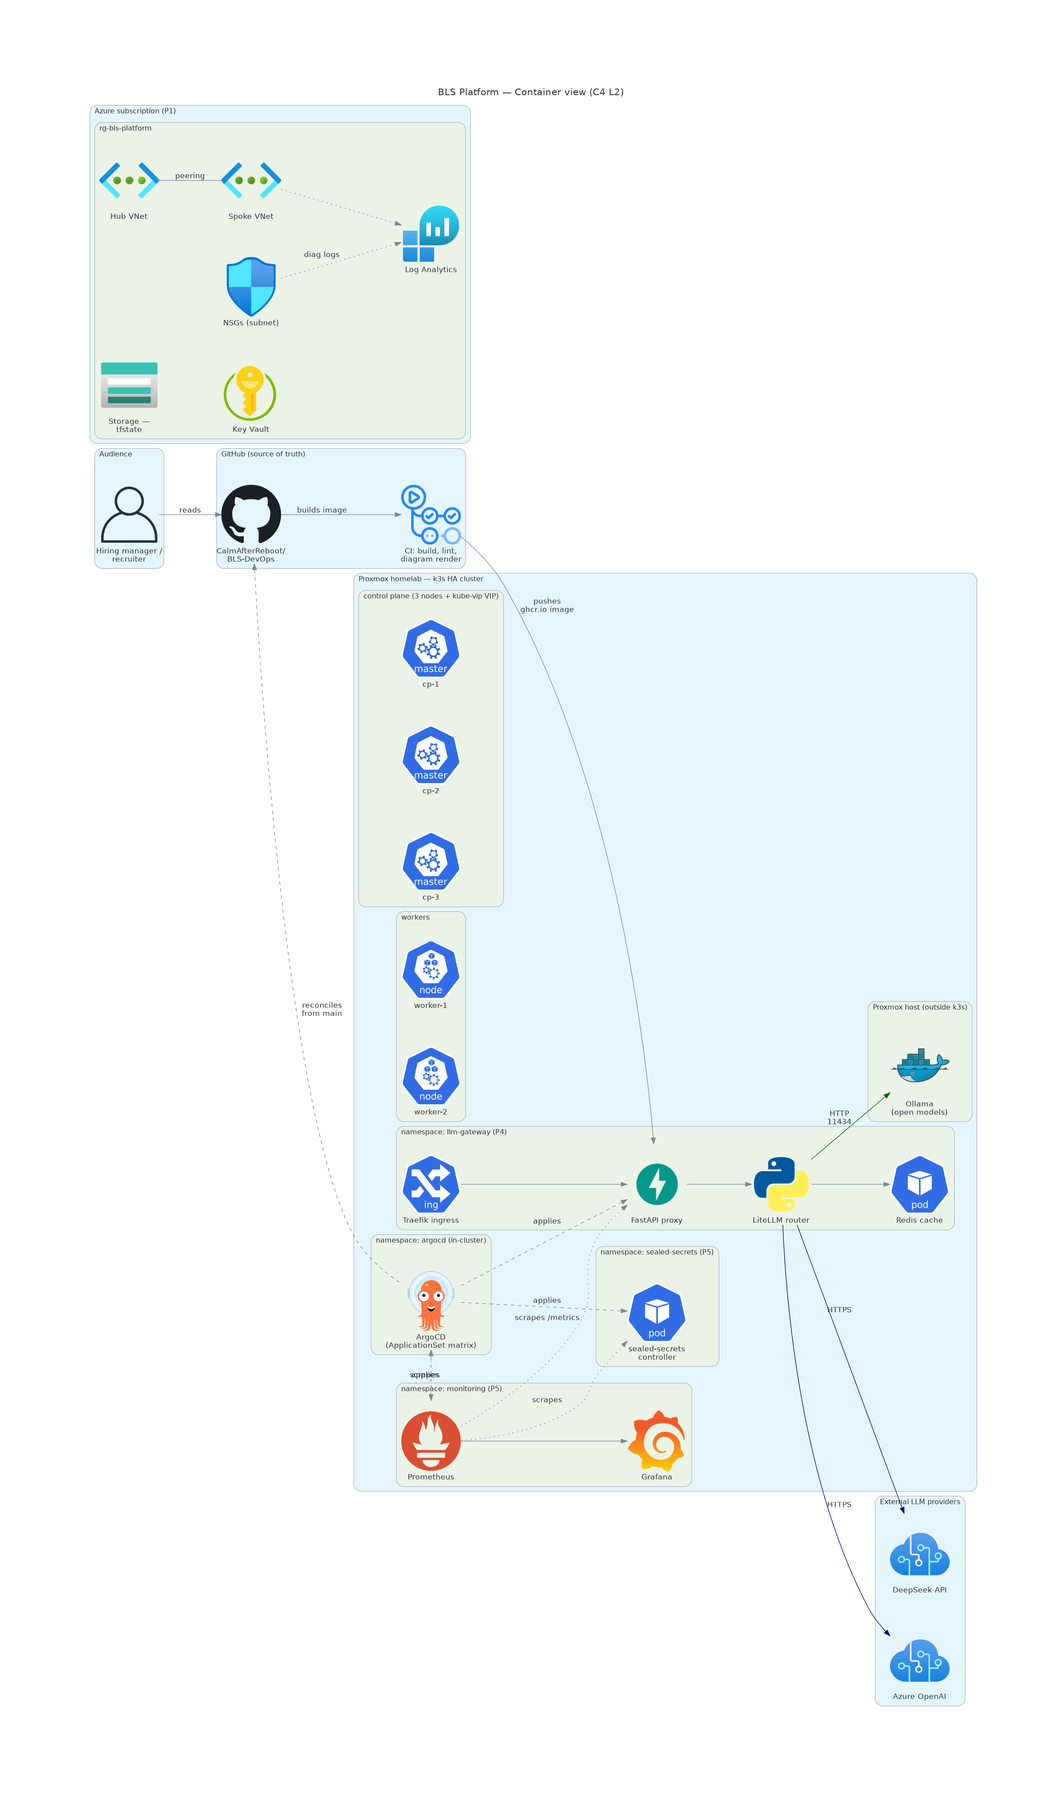
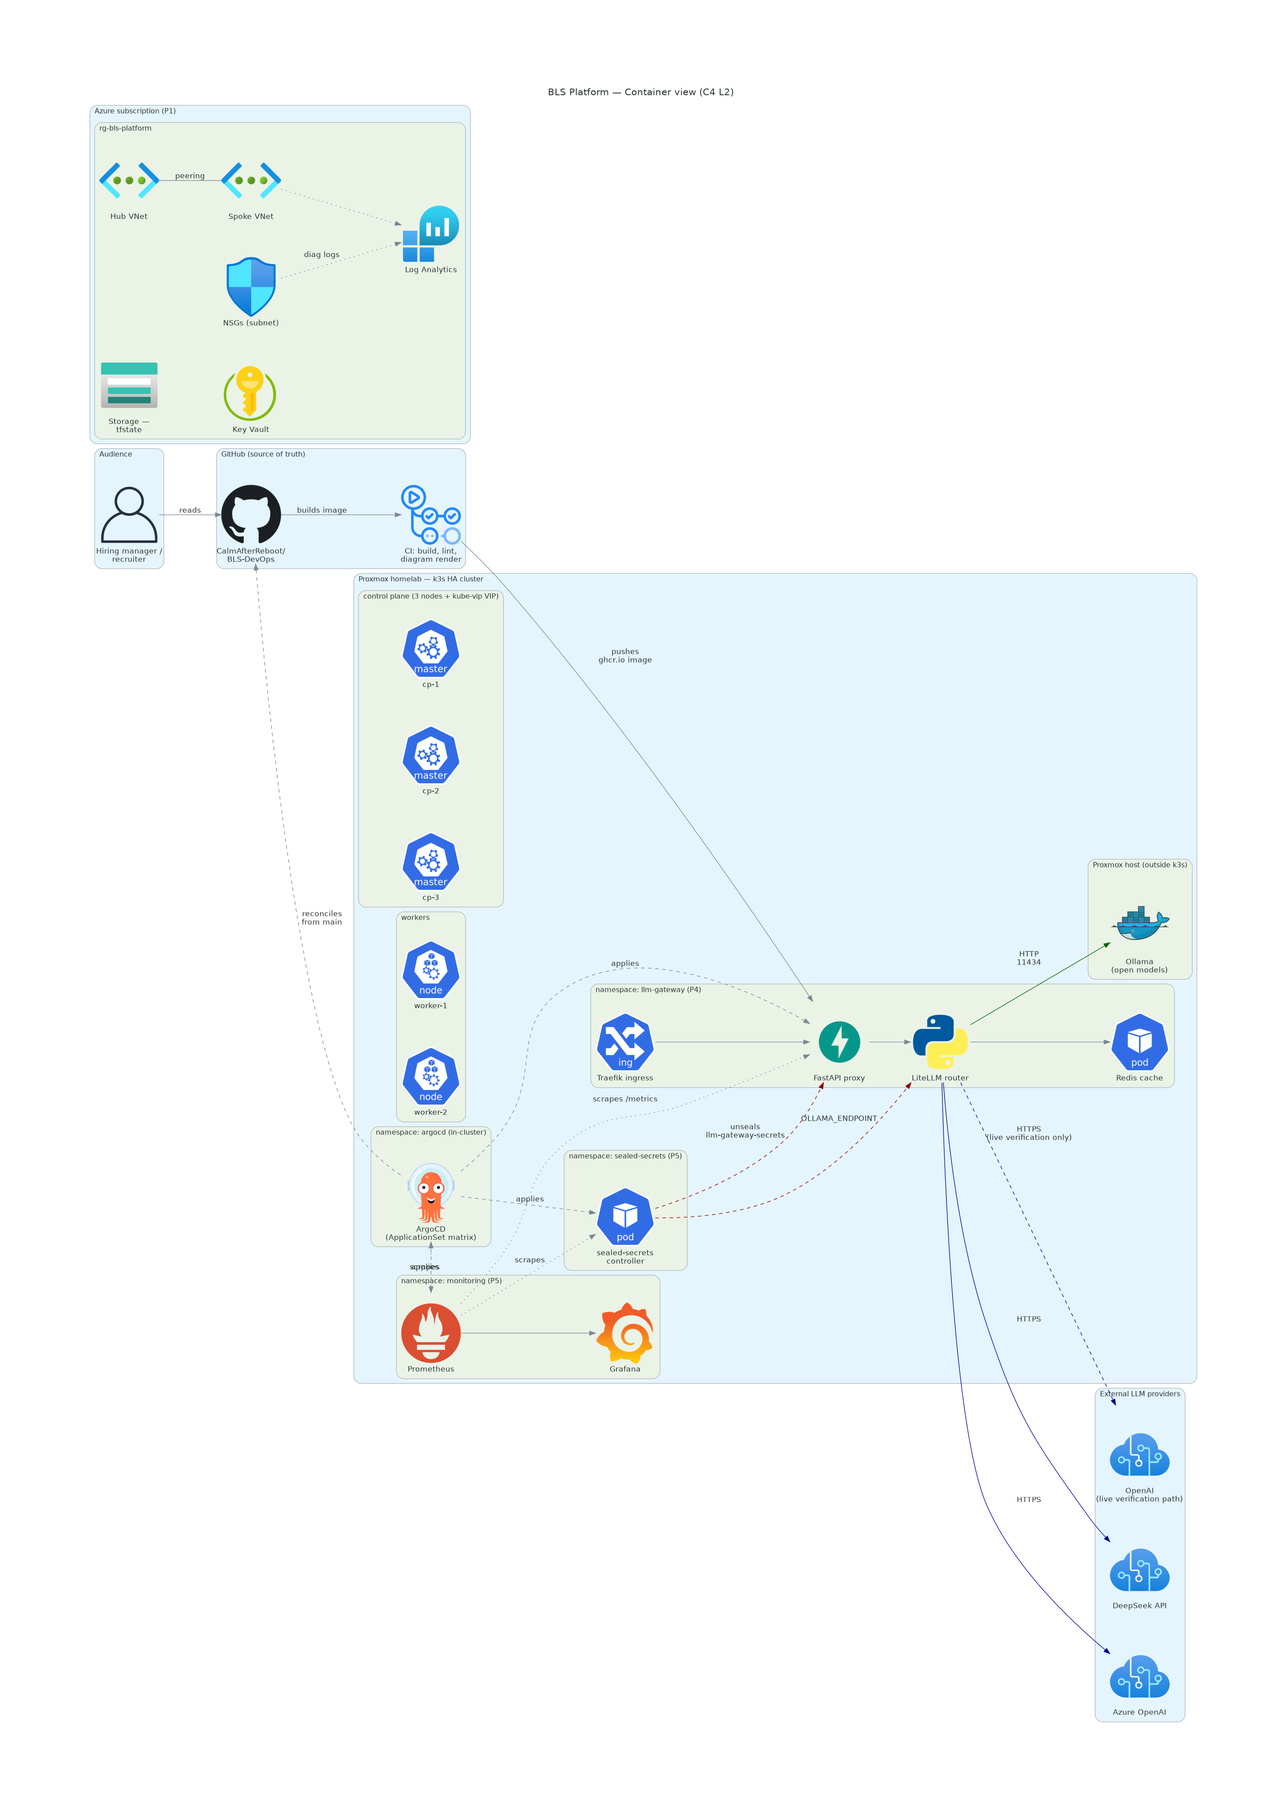
docs: refresh P1–P4 diagrams + add docs/tools-and-urls.md (#12)
* docs: refresh diagrams P1-P4 and add docs/tools-and-urls.md

Diagrams refreshed to reflect the state after today's six PRs
(#6 through #11) on P4 — chiefly WU-4 closure, the live OpenAI
verification suite, the auth-middleware contract change, and the
move of the Ollama endpoint into the SealedSecret.

## Diagram updates

- 00-system-context.mmd — `LLM providers` callout now names the
  three actual providers (OpenAI, Azure OpenAI, Ollama) instead
  of a generic label.
- 01-container-view.py — adds OpenAI to external providers
  (dashed edge marks the opt-in live-verification path) and adds
  a provisioning-time dashed edge from sealed-secrets controller
  to the gateway + LiteLLM showing env-var injection.
- 04-multi-cluster-gitops.mmd — `bls-aks-demo` arm annotated with
  current `Unknown` sync state (AKS torn down for cost discipline,
  rebuild = WU-5). Closing note clarifies selfHeal applies to the
  reachable arm.
- 05-llm-gateway-request-path.mmd — major refresh. Adds a banner
  note for the three SealedSecret-sourced env vars (BLS_API_KEYS,
  LITELLM_MASTER_KEY, OLLAMA_ENDPOINT). The 401/403 branches now
  show the JSON envelope shape clients see after the auth fix in
  PR #11. OLLAMA_ENDPOINT path made explicit on the Ollama call.
- 07-scope-boundary.mmd — IN-scope: LLM gateway entry now says
  `SealedSecret-backed`; adds `Live OpenAI verification + committed
  evidence`. OUT-scope open-WU list updated to remove the now-closed
  WU-3 and WU-4.
[…]

Changed region(s): [[0.0618, 0.0311, 0.9586, 0.9649], [0.7112, 0.5603, 0.804, 0.6848], [0.5875, 0.5603, 0.6803, 0.6848]]

diff --git a/docs/diagrams/01-container-view.py b/docs/diagrams/01-container-view.py
@@ -61,6 +61,7 @@ with Diagram(
     with Cluster("External LLM providers"):
         deepseek = CognitiveServices("DeepSeek API")
         aoai = CognitiveServices("Azure OpenAI")
+        openai = CognitiveServices("OpenAI\n(live verification path)")
 
     # Azure landing zone (P1)
     with Cluster("Azure subscription (P1)"):
@@ -114,6 +115,15 @@ with Diagram(
     litellm >> Edge(label="HTTP\n11434", color="darkgreen") >> ollama
     litellm >> Edge(label="HTTPS", color="darkblue") >> deepseek
     litellm >> Edge(label="HTTPS", color="darkblue") >> aoai
+    litellm >> Edge(label="HTTPS\n(live verification only)", color="darkblue", style="dashed") >> openai
+
+    # Sealed-secrets controller unseals committed SealedSecrets into
+    # in-namespace Secrets that the gateway and LiteLLM mount as env vars
+    # (BLS_API_KEYS, LITELLM_MASTER_KEY, OLLAMA_ENDPOINT). Edge is
+    # rendered dashed because the relationship is provisioning-time,
+    # not request-time.
+    sealed >> Edge(label="unseals\nllm-gateway-secrets", style="dashed", color="darkred") >> fastapi
+    sealed >> Edge(label="OLLAMA_ENDPOINT", style="dashed", color="darkred") >> litellm
 
     prom >> Edge(label="scrapes /metrics", style="dotted") >> fastapi
     prom >> Edge(label="scrapes", style="dotted") >> argocd

diff --git a/docs/diagrams/README.md b/docs/diagrams/README.md
@@ -70,13 +70,13 @@ The catalogue is the index. Every diagram below has a row; every row links to so
 
 | # | Source | Type | Caption | Supports |
 |---|---|---|---|---|
-| 00 | [`00-system-context.mmd`](./00-system-context.mmd) | Mermaid (C4 L1) | System context: the BLS Platform at the centre and the systems it genuinely interacts with at runtime — GitHub (source of truth + CI), Microsoft Azure (P1 landing zone + Terraform remote state), the Proxmox homelab (k3s cluster, ArgoCD, workloads P4 and P5), and the upstream LLM providers consumed via the FastAPI/LiteLLM gateway. The single human actor is an API client (developer or service) hitting the LLM gateway — a real runtime user. The dotted edge from GitHub to Proxmox names the GitOps reconciliation path (Git is the source, ArgoCD pulls). Audience actors — recruiter, hiring manager, the architect-as-author — are deliberately not in this diagram; a system context diagram records technical interactions, not the portfolio's reading audience. | Bridge document §1 (the signal); [`BLS-PLATFORM-ENGINEERING-GUIDE.md`](../../BLS-PLATFORM-ENGINEERING-GUIDE.md) |
-| 01 | [`01-container-view.py`](./01-container-view.py) | Python topology (C4 L2) | Container-level view of the entire BLS platform. GitHub + Actions on the left; Azure landing zone (P1) and Proxmox homelab k3s cluster (P2 + P4 + P5) in the centre; external LLM providers on the right. Shows GitOps reconciliation, the CI image-push edge, Prometheus scrape edges, and the cross-cluster request path from FastAPI gateway through LiteLLM to Ollama / Azure OpenAI / DeepSeek. | Bridge document §4 (project-by-project landing page) |
+| 00 | [`00-system-context.mmd`](./00-system-context.mmd) | Mermaid (C4 L1) | System context: the BLS Platform at the centre and the systems it genuinely interacts with at runtime — GitHub (source of truth + CI), Microsoft Azure (P1 landing zone + Terraform remote state), the Proxmox homelab (k3s cluster, ArgoCD, workloads P4 and P5), and the upstream LLM providers (OpenAI, Azure OpenAI, Ollama) consumed via the FastAPI/LiteLLM gateway. The single human actor is an API client (developer or service) hitting the LLM gateway — a real runtime user. The dotted edge from GitHub to Proxmox names the GitOps reconciliation path (Git is the source, ArgoCD pulls). Audience actors — recruiter, hiring manager, the architect-as-author — are deliberately not in this diagram; a system context diagram records technical interactions, not the portfolio's reading audience. | Bridge document §1 (the signal); [`BLS-PLATFORM-ENGINEERING-GUIDE.md`](../../BLS-PLATFORM-ENGINEERING-GUIDE.md) |
+| 01 | [`01-container-view.py`](./01-container-view.py) | Python topology (C4 L2) | Container-level view of the entire BLS platform. GitHub + Actions on the left; Azure landing zone (P1) and Proxmox homelab k3s cluster (P2 + P4 + P5) in the centre; external LLM providers on the right (Ollama on the Proxmox host, plus DeepSeek / Azure OpenAI / OpenAI as cloud providers — the last reached only via the opt-in live verification suite). Shows GitOps reconciliation, the CI image-push edge, Prometheus scrape edges, the LiteLLM-to-backend request paths, and a dashed provisioning-time edge from the sealed-secrets controller to the gateway and LiteLLM showing how `llm-gateway-secrets` (BLS_API_KEYS, LITELLM_MASTER_KEY, OLLAMA_ENDPOINT) is injected as env vars at pod start. | Bridge document §4 (project-by-project landing page) |
 | 02 | [`02-landing-zone-topology.py`](./02-landing-zone-topology.py) | Python topology | P1 — Azure Landing Zone. Hub VNet `10.0.0.0/16` and Spoke VNet `10.1.0.0/16` peered bidirectionally; subnet-scoped NSGs; Log Analytics workspace receiving diagnostic logs from VNets and NSGs; Storage Account for remote Terraform state; Key Vault. | Bridge document §4 (P1) |
 | 03 | [`03-k3s-ha-cluster.py`](./03-k3s-ha-cluster.py) | Python topology | P2 — k3s HA cluster on Proxmox. Three control-plane nodes behind a kube-vip-managed VIP (placeholder `<vip-ip>`), embedded etcd quorum, two workers, ArgoCD running in-cluster, the Ansible `node-hardening` role rendered as a banner. VLAN identifiers placeheld per the private-network sanitisation rule. | Bridge document §4 (P2); ADR-002, ADR-003 |
-| 04 | [`04-multi-cluster-gitops.mmd`](./04-multi-cluster-gitops.mmd) | Mermaid sequence | P3 — multi-cluster GitOps reconciliation. Git push → ApplicationSet matrix generator expands `[clusters] × [workloads]` → ArgoCD reconciles each child Application to its target cluster (k3s in-cluster and `bls-aks-demo`) in parallel → health rolls back up to the UI. The closing note captures why `selfHeal=true` is load-bearing. | Bridge document §4 (P3); ADR-005 |
-| 05 | [`05-llm-gateway-request-path.mmd`](./05-llm-gateway-request-path.mmd) | Mermaid sequence | P4 — LLM gateway request path. Bearer auth at the FastAPI edge, LiteLLM router with cache-hit/cache-miss branch, backend selection (Ollama on the Proxmox host vs Azure OpenAI), response. The Prometheus `/metrics` scrape is rendered as a separate async edge — deliberately not part of the request path. | Bridge document §4 (P4); ADR-008 |
-| 07 | [`07-scope-boundary.mmd`](./07-scope-boundary.mmd) | Mermaid flowchart | Scope discipline: two columns — what the portfolio claims (left) versus what it deliberately does not claim (right). Box labels are kept short for legibility; the depth lives here. Left: Terraform-built hub-spoke landing zone (with remote state + locking); HA k3s on Proxmox (with the Ansible node-hardening role); matrix-ApplicationSet GitOps (N×M reconciliation); the FastAPI/LiteLLM LLM gateway running with `/metrics` exposed; kube-prometheus-stack + Sealed Secrets (runbook, restart test, key backup); six ADRs, two runbooks, five release tags, incident response documented. Right: no multi-tenant production workload; no AWS/GCP production depth inside this repo (GCP is on the P6 roadmap, not built); no platform-team-of-N coordination (one-architect portfolio); AKS is torn down for cost discipline (rebuild tracked as WU-5); open WUs remain (WU-3, 4, 5, 6, 8, 9 — tracked and honest); no formal 24/7 SRE on-call (that's MSP context, not this repo). | Bridge document §6 (what this portfolio deliberately doesn't claim); Plan-v4 operating doc §5 |
+| 04 | [`04-multi-cluster-gitops.mmd`](./04-multi-cluster-gitops.mmd) | Mermaid sequence | P3 — multi-cluster GitOps reconciliation. Git push → ApplicationSet matrix generator expands `[clusters] × [workloads]` → ArgoCD reconciles each child Application to its target cluster (k3s in-cluster and `bls-aks-demo`) in parallel → health rolls back up to the UI. The `bls-aks-demo` arm is annotated with its current `Unknown` sync state — AKS is torn down for cost discipline (rebuild tracked as WU-5), so the reconcile leg is intentionally unreachable rather than broken. The closing note captures why `selfHeal=true` is load-bearing for the reachable arm. | Bridge document §4 (P3); ADR-005 |
+| 05 | [`05-llm-gateway-request-path.mmd`](./05-llm-gateway-request-path.mmd) | Mermaid sequence | P4 — LLM gateway request path. Three runtime credentials are sourced from the SealedSecret `llm-gateway-secrets` at pod start (rendered as a banner note, not a request-time edge): `BLS_API_KEYS` gates Bearer auth at the FastAPI edge, `LITELLM_MASTER_KEY` authorises gateway→LiteLLM, and `OLLAMA_ENDPOINT` is substituted into LiteLLM's `api_base` via its `os.environ/VAR` syntax — so no homelab-internal address is committed in plaintext. Auth failures return a typed JSON envelope (401 missing-token / 403 invalid-key). LiteLLM router carries the cache-hit/cache-miss branch and backend selection (Ollama on the Proxmox host vs Azure OpenAI). The Prometheus `/metrics` scrape is rendered as a separate async edge — deliberately not part of the request path. | Bridge document §4 (P4); ADR-008; [`k8s/workloads/llm-gateway/SECURITY.md`](../../k8s/workloads/llm-gateway/SECURITY.md) |
+| 07 | [`07-scope-boundary.mmd`](./07-scope-boundary.mmd) | Mermaid flowchart | Scope discipline: two columns — what the portfolio claims (left) versus what it deliberately does not claim (right). Box labels are kept short for legibility; the depth lives here. Left: Terraform-built hub-spoke landing zone (with remote state + locking); HA k3s on Proxmox (with the Ansible node-hardening role); matrix-ApplicationSet GitOps (N×M reconciliation); the FastAPI/LiteLLM LLM gateway running with `/metrics` exposed and runtime credentials sourced from a `SealedSecret` (WU-4 closed); kube-prometheus-stack + Sealed Secrets (runbook, restart test, key backup); live OpenAI verification suite with two committed JSON evidence artefacts under [`k8s/workloads/llm-gateway/docs/verification/`](../../k8s/workloads/llm-gateway/docs/verification/); six ADRs, two runbooks, five release tags, incident response documented. Right: no multi-tenant production workload; no AWS/GCP production depth inside this repo (GCP is on the P6 roadmap, not built); no platform-team-of-N coordination (one-architect portfolio); AKS is torn down for cost discipline (rebuild tracked as WU-5); open WUs remain (5, 6, 8, 9 — tracked and honest); no formal 24/7 SRE on-call (that's MSP context, not this repo). | Bridge document §6 (what this portfolio deliberately doesn't claim); Plan-v4 operating doc §5 |
 
 Future diagrams (planned, Plan-v4 Week 3):
 

diff --git a/docs/tools-and-urls.md b/docs/tools-and-urls.md
@@ -1,0 +1,120 @@
+# Tools and URLs
+
+> Public reference for every tool the BLS Platform uses, with links to its
+> documentation and the version pinned (where one is committed). This is
+> the index — depth lives in the linked ADR, runbook, or project README.
+> For the conceptual mapping of *why* each tool was chosen, see
+> [`docs/plan-v4/concept-tool-mapping.md`](plan-v4/concept-tool-mapping.md).
+
+Internal homelab URLs (ArgoCD UI, Grafana UI, kube-vip VIP, Proxmox host)
+are deliberately omitted — per the sanitisation rule, no
+private-network address is committed to a public artefact.
+
+## This repository
+
+| Resource | URL |
+|---|---|
+| Source of truth (GitHub) | <https://github.com/CalmAfterReboot/BLS-platform> |
+| Gateway container image (GHCR) | `ghcr.io/calmafterreboot/bls-llm-gateway` (`:latest` + `:<sha>`) |
+| CI build workflow | [`.github/workflows/build-gateway.yaml`](../.github/workflows/build-gateway.yaml) |
+| Diagram render workflow | [`.github/workflows/render-diagrams.yml`](../.github/workflows/render-diagrams.yml) |
+| Terraform CI / plan / apply | [`.github/workflows/terraform-{ci,plan,apply}.yml`](../.github/workflows/) |
+
+## Cloud platform — P1 Landing Zone
+
+| Tool | Use in portfolio | URL | Version |
+|---|---|---|---|
+| Terraform | Hub-spoke VNet, NSGs, Log Analytics, Storage (remote state), Key Vault | <https://developer.hashicorp.com/terraform> | ≥ 1.5 (CI) |
+| Terraform Azure provider | Azure resource provisioning | <https://registry.terraform.io/providers/hashicorp/azurerm/latest/docs> | pinned in `modules/` |
+| Microsoft Azure docs | Subscription, RG, policy reference | <https://learn.microsoft.com/azure/> | n/a |
+| Azure CLI | Local subscription auth, occasional ad-hoc checks | <https://learn.microsoft.com/cli/azure/> | n/a |
+
+## Provisioning & configuration — P2
+
+| Tool | Use in portfolio | URL | Version |
+|---|---|---|---|
+| Ansible | `node-hardening` role across all k3s nodes (SSH lockdown, ufw, fail2ban, sysctl, NTP) | <https://docs.ansible.com/> | n/a (system-installed) |
+| k3s | HA Kubernetes on Proxmox VMs | <https://docs.k3s.io/> | per `02-k3s-platform/` |
+| kube-vip | VIP for HA control plane | <https://kube-vip.io/> | per `02-k3s-platform/` |
+| Proxmox VE | Hypervisor for the homelab cluster | <https://www.proxmox.com/en/proxmox-virtual-environment/overview> | n/a |
+
+## GitOps — P3
+
+| Tool | Use in portfolio | URL | Version |
+|---|---|---|---|
+| ArgoCD | Reconciles every workload manifest from `main` to in-cluster + bls-aks-demo | <https://argo-cd.readthedocs.io/> | per `k8s/apps/` |
+| ArgoCD ApplicationSet | Matrix generator `[clusters] × [workloads]` produces N×M Applications from one spec | <https://argo-cd.readthedocs.io/en/stable/operator-manual/applicationset/> | bundled with ArgoCD |
+| Helm | Templating engine for every chart under `k8s/workloads/` | <https://helm.sh/docs/> | ≥ 3.12 |
+
+## Workload — P4 LLM Gateway
+
+| Tool | Use in portfolio | URL | Version |
+|---|---|---|---|
+| FastAPI | HTTP edge (`app/main.py`), Bearer auth middleware, `/healthz`, `/metrics` | <https://fastapi.tiangolo.com/> | `0.111.0` (`app/requirements.txt`) |
+| LiteLLM (proxy + SDK) | Backend routing across Ollama / Azure OpenAI / OpenAI / DeepSeek; cache-aware Router with `num_retries` and `routing_strategy: least-busy` | <https://docs.litellm.ai/> | proxy `ghcr.io/berriai/litellm:main-latest`; SDK `>=1.40,<2.0` (`requirements-dev.txt`) |
+| Uvicorn | ASGI server for the FastAPI app | <https://www.uvicorn.org/> | `0.30.0` (`app/requirements.txt`) |
+| httpx | Async HTTP client (gateway → LiteLLM forwarding) | <https://www.python-httpx.org/> | `0.27.0` (`app/requirements.txt`) |
+| Pydantic v2 | Request schemas (`ChatRequest`) | <https://docs.pydantic.dev/2/> | `2.7.0` (`app/requirements.txt`) |
+| prometheus-fastapi-instrumentator | `/metrics` endpoint | <https://github.com/trallnag/prometheus-fastapi-instrumentator> | `7.1.0` (`app/requirements.txt`) |
+| Ollama | Open-model backend (llama3.2, mistral, deepseek-r1) on the Proxmox host | <https://ollama.com/> · <https://github.com/ollama/ollama> | n/a (host-installed) |
+| Redis | Exact-match response cache for LiteLLM | <https://redis.io/docs/latest/> | `7-alpine` (`values.yaml`) |
+| OpenAI Python client (via LiteLLM) | Live verification suite calls OpenAI directly through LiteLLM SDK | <https://platform.openai.com/docs/api-reference> | bundled with `litellm` |
+| Azure OpenAI Service | Cloud premium-tier backend (configured in LiteLLM `model_list`) | <https://learn.microsoft.com/azure/ai-services/openai/> | n/a |
+
+## Observability — P5
+
+| Tool | Use in portfolio | URL | Version |
+|---|---|---|---|
+| Prometheus | Pull-based metrics, ServiceMonitor scrape every 30s | <https://prometheus.io/docs/> | via kube-prometheus-stack |
+| kube-prometheus-stack (Helm chart) | All-in-one Prometheus + Alertmanager + Grafana + Operator | <https://github.com/prometheus-community/helm-charts/tree/main/charts/kube-prometheus-stack> | pinned in `k8s/apps/monitoring.yaml` |
+| Grafana | Dashboards over Prometheus data source | <https://grafana.com/docs/grafana/latest/> | bundled with kube-prometheus-stack |
+| Alertmanager | Alert routing | <https://prometheus.io/docs/alerting/latest/alertmanager/> | bundled with kube-prometheus-stack |
+| ServiceMonitor CRD | Declarative Prometheus scrape configs | <https://prometheus-operator.dev/docs/operator/api/#monitoring.coreos.com/v1.ServiceMonitor> | bundled with prometheus-operator |
+
+## Secrets
+
+| Tool | Use in portfolio | URL | Version |
+|---|---|---|---|
+| Sealed Secrets (Bitnami) | Encrypted-in-git Secret manifests; `llm-gateway-secrets` sealed `--scope=strict` to namespace + name | <https://github.com/bitnami-labs/sealed-secrets> · <https://sealed-secrets.netlify.app/> | controller via `k8s/apps/sealed-secrets.yaml`; `kubeseal` v0.36.6 locally |
+| detect-secrets (Yelp) | Pre-commit hook blocking accidental commits of high-entropy strings / known secret patterns | <https://github.com/Yelp/detect-secrets> | `v1.5.0` (`.pre-commit-config.yaml`) |
+
+## CI / dev hygiene
+
+| Tool | Use in portfolio | URL | Version |
+|---|---|---|---|
+| pre-commit | Hook runner | <https://pre-commit.com/> | n/a (system-installed) |
+| `pre-commit-hooks` (trailing-whitespace, end-of-file-fixer, check-yaml, etc.) | Standard hygiene | <https://github.com/pre-commit/pre-commit-hooks> | `v4.6.0` |
+| Ruff | Python lint + format (scoped to `k8s/workloads/llm-gateway/tests/`) | <https://docs.astral.sh/ruff/> | `v0.6.9` |
+| pre-commit-terraform | `terraform fmt`, `terraform validate`, Checkov | <https://github.com/antonbabenko/pre-commit-terraform> | `v1.92.0` |
+| Checkov | Terraform static analysis | <https://www.checkov.io/> | via pre-commit-terraform |
+| Hadolint | Dockerfile lint | <https://github.com/hadolint/hadolint> | `v2.12.0` |
+| pytest | Test runner for the live OpenAI verification suite | <https://docs.pytest.org/> | `>=8.0,<9.0` (`requirements-dev.txt`) |
+| pytest-asyncio | Async test mode | <https://github.com/pytest-dev/pytest-asyncio> | `>=0.23,<1.0` |
+| python-dotenv | `.env` loading in the live test suite | <https://github.com/theskumar/python-dotenv> | `>=1.0,<2.0` |
+
+## Diagrams
+
+| Tool | Use in portfolio | URL | Version |
+|---|---|---|---|
+| Mermaid | Sequence + flowchart + C4-style intent diagrams; renders natively in GitHub `.md` | <https://mermaid.js.org/> | GitHub-bundled |
+| Python `diagrams` library (mingrammer) | Cloud / Kubernetes topology with provider icons; CI-rendered to PNG | <https://diagrams.mingrammer.com/> | system-installed in CI runner |
+| Graphviz | Layout engine used by `diagrams` | <https://graphviz.org/> | apt-installed in CI runner |
+| Diagram catalogue | All diagrams + captions | [`docs/diagrams/README.md`](diagrams/README.md) | n/a |
+
+## C4 / architecture method references
+
+| Reference | URL |
+|---|---|
+| C4 Model | <https://c4model.com/> |
+| ADR pattern (Michael Nygard) | <https://cognitect.com/blog/2011/11/15/documenting-architecture-decisions> |
+| `adr-tools` (informational) | <https://github.com/npryce/adr-tools> |
+
+## Updating this file
+
+When adding a tool to the platform:
+
+1. Add a row in the relevant section.
+2. Link to **upstream documentation**, not to a vendor's marketing landing page.
+3. Pin the version where one is committed (in `*.yaml`, `requirements.txt`, `.pre-commit-config.yaml`, Helm `Chart.yaml`). Use `n/a` when the version is system-installed or otherwise not pinned.
+4. If the tool justifies an architectural choice, also add a row in [`docs/plan-v4/concept-tool-mapping.md`](plan-v4/concept-tool-mapping.md) linking the ADR.
+5. If a tool is **removed**, delete the row in the same PR that removes its usage. A row pointing at unused infrastructure is worse than no row.
